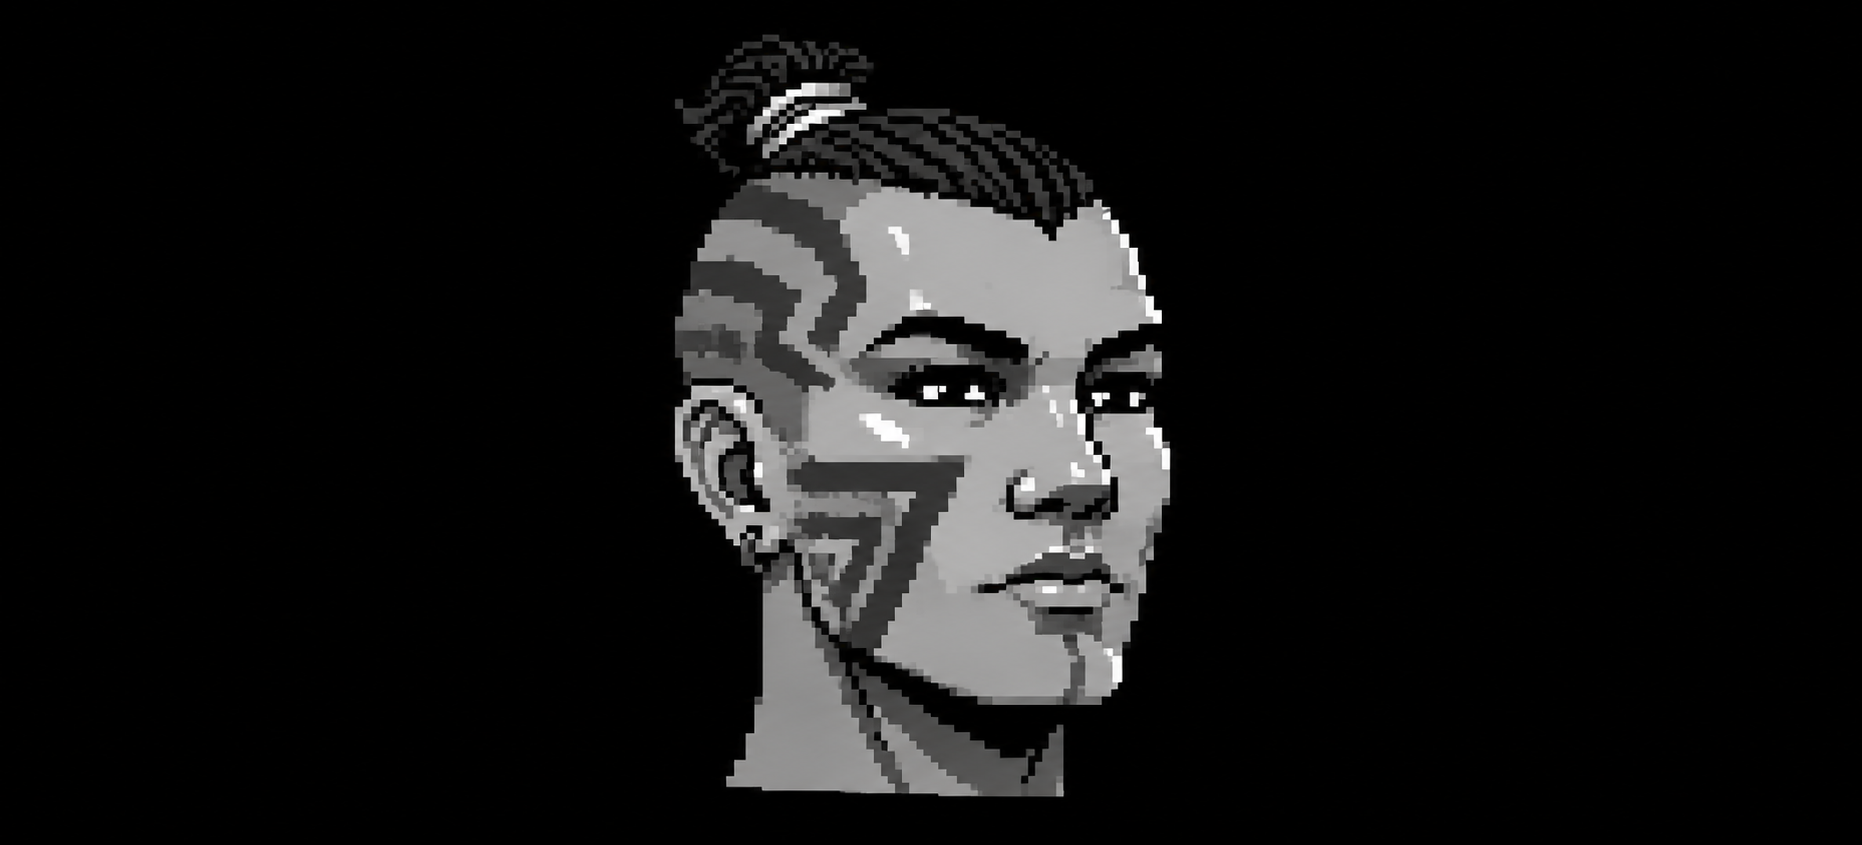
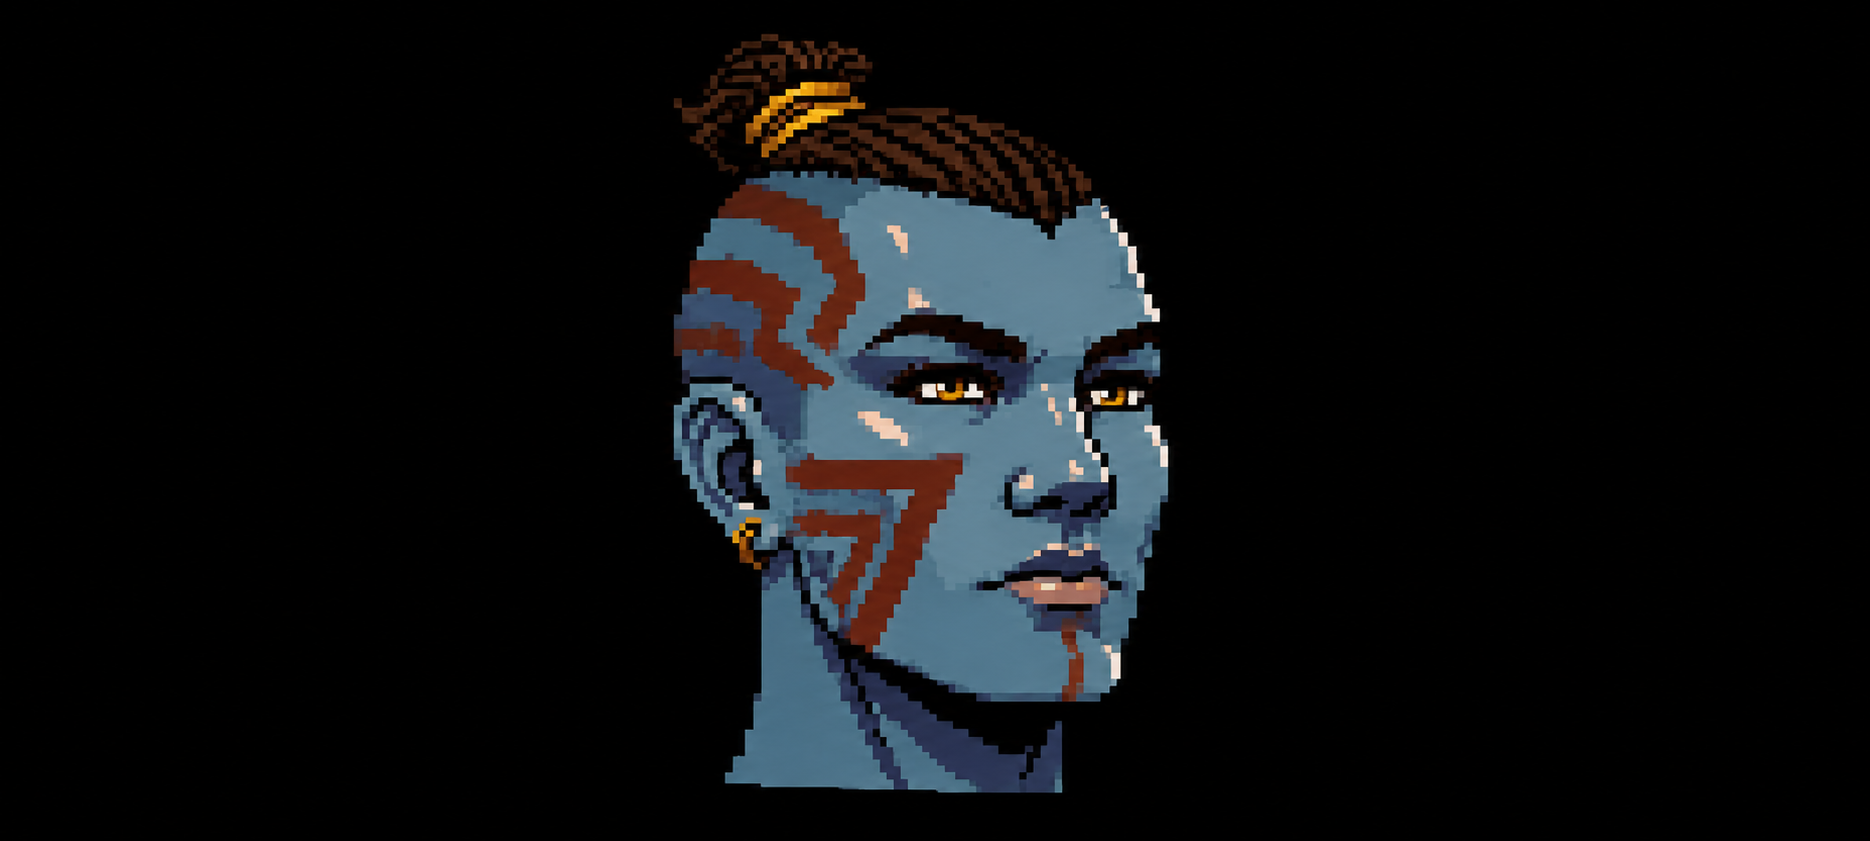
Recolor Goliath portrait heads with a full-color palette

Changed region(s): [[0.3426, 0.0309, 0.6541, 0.9584]]

diff --git a/data/art/portraits/README.md b/data/art/portraits/README.md
@@ -12,6 +12,10 @@ head on a black background, facing slightly right, without a body or costume.
 | Tiefling | [Portrait](tiefling-male.png) | [Portrait](tiefling-female.png) |
 | Dragonborn | [Portrait](dragonborn-male.png) | [Portrait](dragonborn-female.png) |
 
+The Goliath pair now uses slate-blue skin, russet-brown markings and amber
+eyes. The color revision preserves their faces and framing; its edit prompts
+are recorded alongside the original generation prompts.
+
 These are enlarged source artwork, not decoded DAX records or runtime-ready
 88 x 40 head panels. They use an EGA-inspired appearance; the generated PNGs
 are not guaranteed to use exactly sixteen colors or a uniform logical pixel
